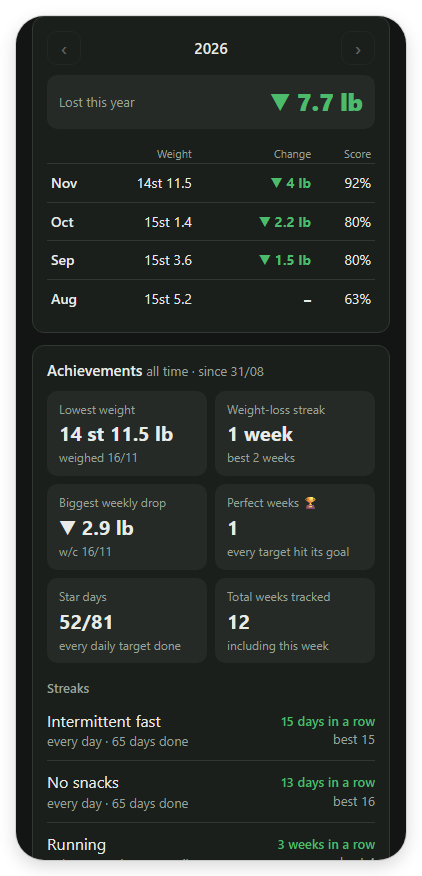
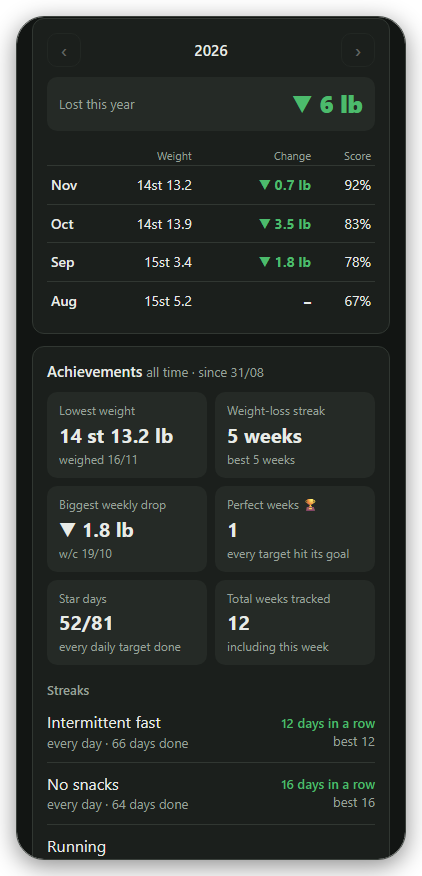
README screenshots for 0.6.0: Exercise row and starting set
All eight retaken from a fresh demo DB (clock pinned to Thu 19/11 19:30),
same phone-frame style. Settings is taller to fit the grouped targets.

diff --git a/README.md b/README.md
@@ -33,7 +33,7 @@ Tickweek is built around a few simple ideas for closing that gap:
 
 <picture>
   <source media="(prefers-color-scheme: dark)" srcset="docs/screenshots/this-week-dark.png">
-  <img src="docs/screenshots/this-week-light.png" width="280" alt="This week: a Mon–Sun table of targets with ticks, numbers and a Star day row">
+  <img src="docs/screenshots/this-week-light.png" width="280" alt="This week: a Mon–Sun table of targets with ticks and numbers, an Exercise row that fills itself from Running and Weight training, and a Star day row">
 </picture>
 
 </td>
@@ -98,7 +98,7 @@ Tickweek is built around a few simple ideas for closing that gap:
 
 <picture>
   <source media="(prefers-color-scheme: dark)" srcset="docs/screenshots/settings-dark.png">
-  <img src="docs/screenshots/settings-light.png" width="280" alt="Settings: targets with reorder and edit, add a target, goal weight, corrections mode and data export">
+  <img src="docs/screenshots/settings-light.png" width="280" alt="Settings: targets with reorder and edit (Running and Weight training listed under Exercise), add a target, goal weight, corrections mode and data export">
 </picture>
 
 </td>

diff --git a/docs/changelogs/2026-11.md b/docs/changelogs/2026-11.md
@@ -1,5 +1,11 @@
 # Changelog: November 2026
 
+## 19 Nov 2026: README screenshots for 0.6.0
+
+- All eight README screenshots retaken (This week, History, Year and achievements, Settings; light + dark) from a
+  fresh demo DB with the clock pinned to Thu 19/11 19:30: they now show the Exercise row and the starting set.
+  Same 422 px phone-frame style; Settings is taller (422×1294) to fit the grouped targets down to Export.
+
 ## 19 Nov 2026: v0.6.0
 
 - Released **v0.6.0**: combined targets (Exercise = Running + Weight training), version on the help page, bigger
